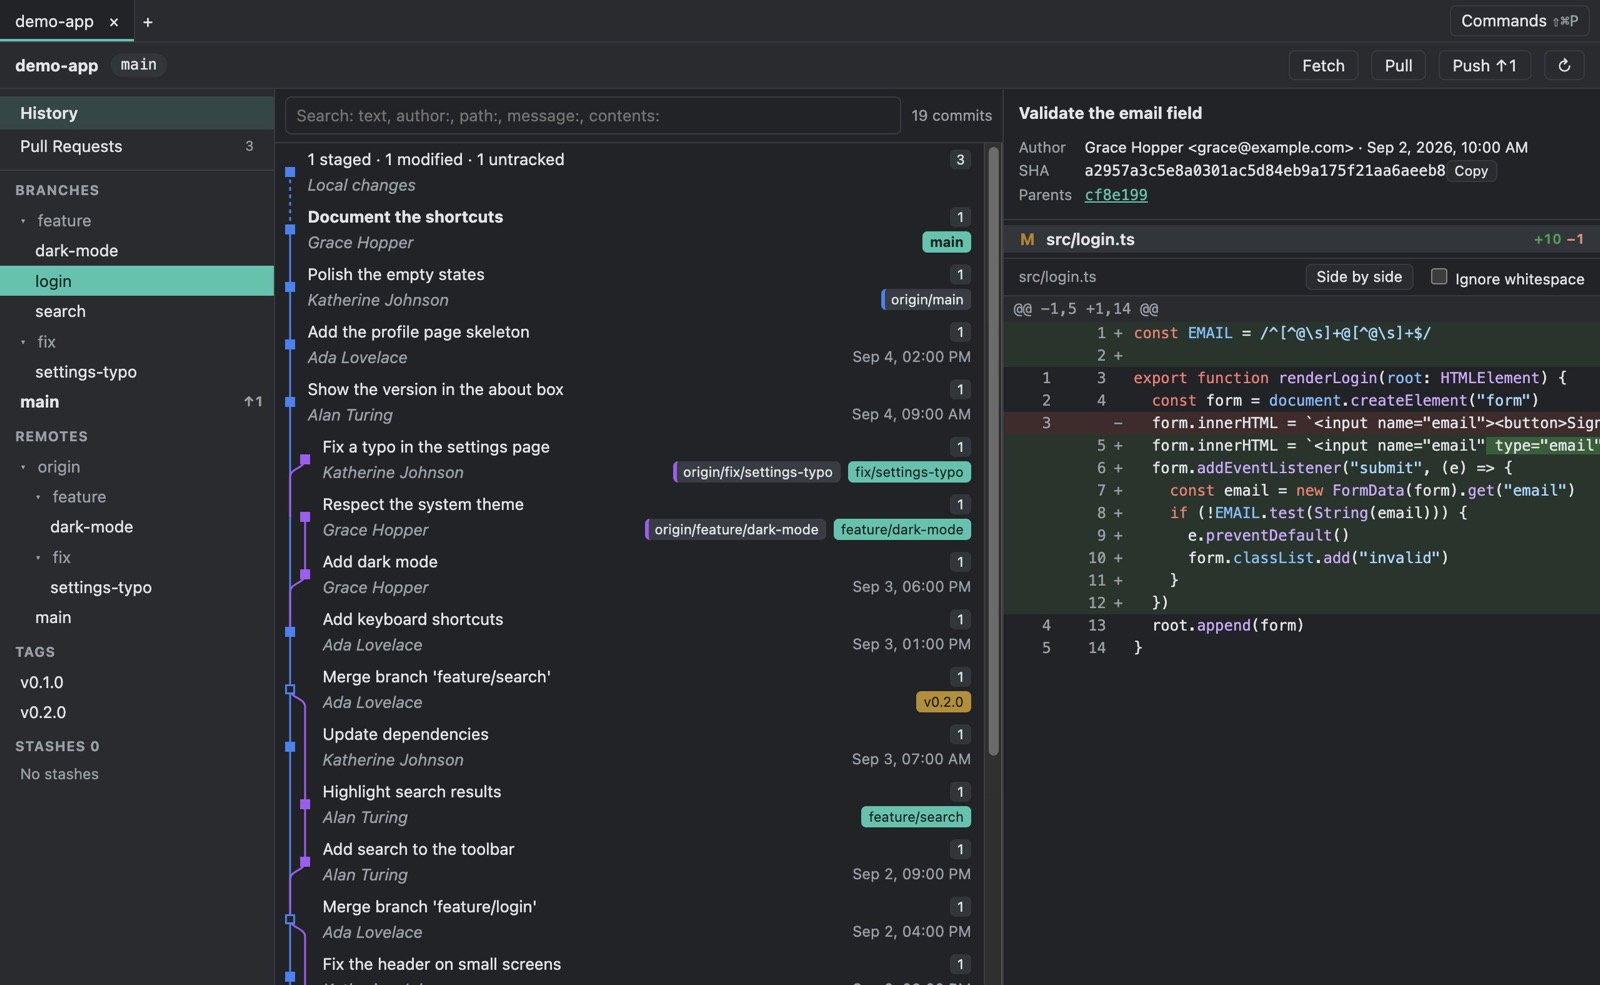
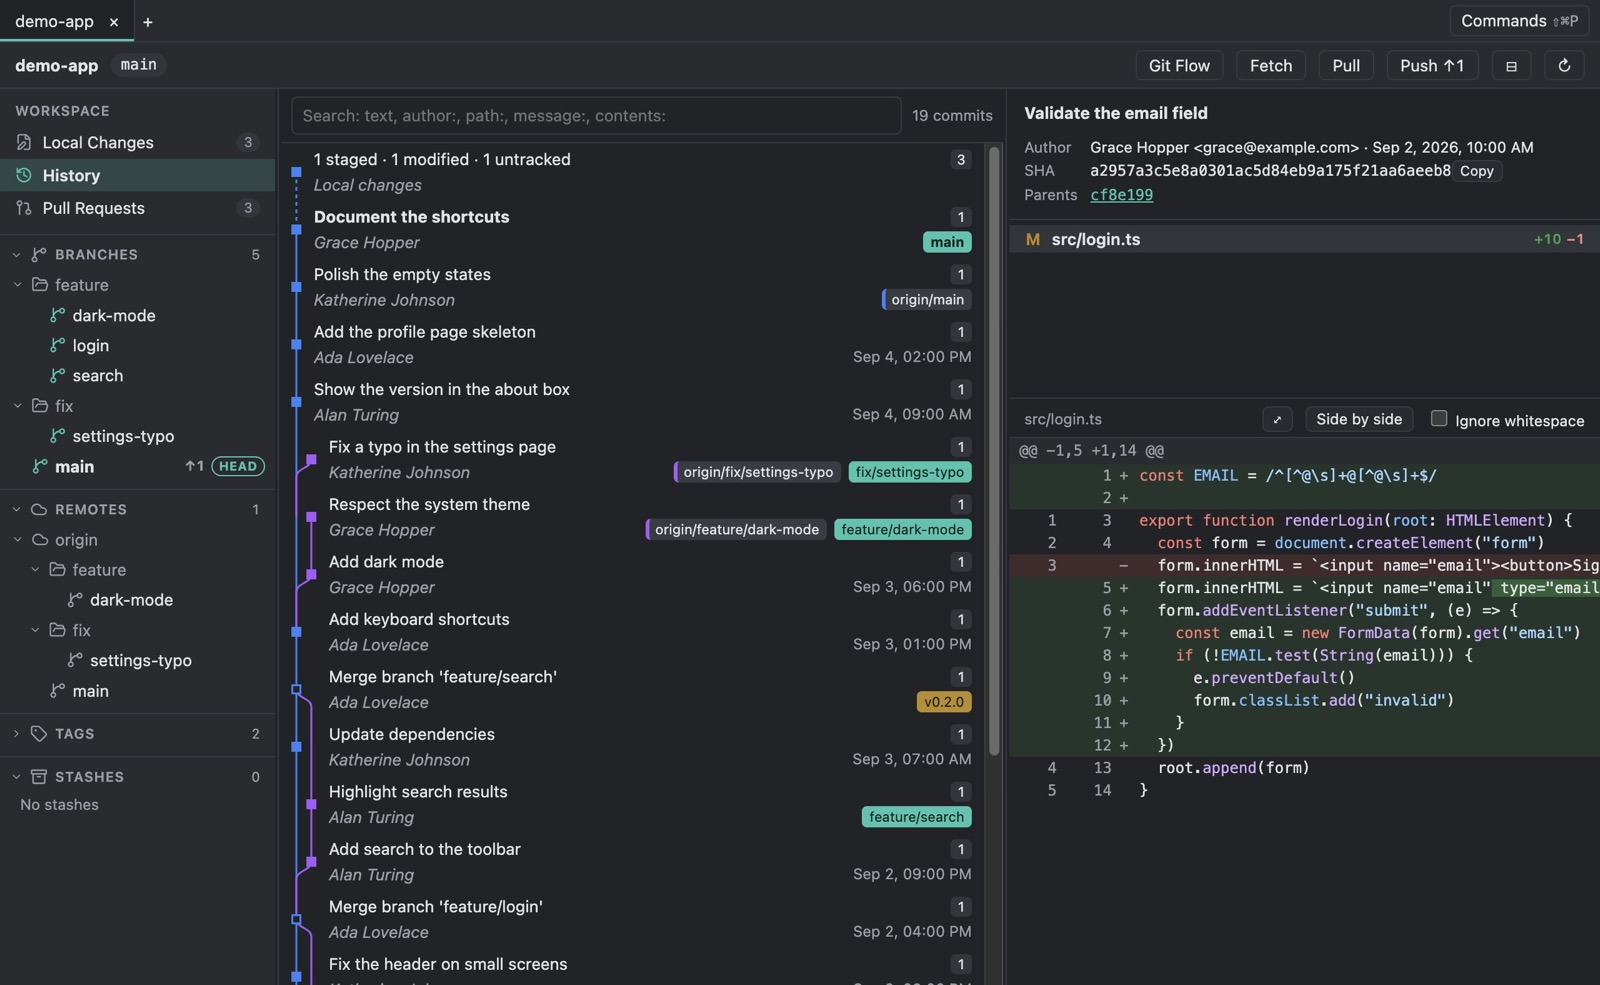
docs: screenshot del README con la nuova sidebar e note di esecuzione

diff --git a/docs/superpowers/plans/2026-10-23-merlino-sidebar.md b/docs/superpowers/plans/2026-10-23-merlino-sidebar.md
@@ -714,3 +714,20 @@ git commit -m "docs: screenshot del README con la nuova sidebar e note di esecuz
 
 Co-Authored-By: Claude Opus 5.5 (1M context) <noreply@anthropic.com>"
 ```
+
+---
+
+## Note di esecuzione
+
+- **Commit**: Task 1 `80b1bc2`, Task 2 `f0826ea`, Task 3 in questo commit.
+- **Deviazioni dal piano**:
+  - due E2E esistenti cercavano la riga di un branch col testo esatto (`^main$`, `^search$`). Ora la riga del branch corrente contiene anche HEAD, quindi il filtro guarda il nome della riga (`.name`): l'helper `branchItem` in `drag.spec.ts` e il Finish in `flow.spec.ts`;
+  - la voce Local Changes è anche una destinazione del drag & drop, come la riga "Local changes" in cima alla storia.
+- **Licenza delle icone**: il commento `/*! … */` di `AppIcon.vue` resta nel bundle (`out/renderer/assets/index-*.js`).
+- **Screenshot**:
+  - sidebar in chiaro e in scuro, con la finestra nascosta: allineamento, HEAD, separatori, voce attiva, locali colorati e remoti grigi, una sola riga evidenziata;
+  - i 6 screenshot del README rigenerati: ora mostrano anche il pulsante ⤢ e quello del layout.
+- **Verifica**:
+  - lint e typecheck puliti;
+  - 210 test unit e di integrazione (1 saltato), di cui 1 nuovo in `layout.test.ts`;
+  - 49 E2E con la finestra nascosta (1 saltato: gli screenshot del README), di cui 3 nuovi in `sidebar.spec.ts`.
